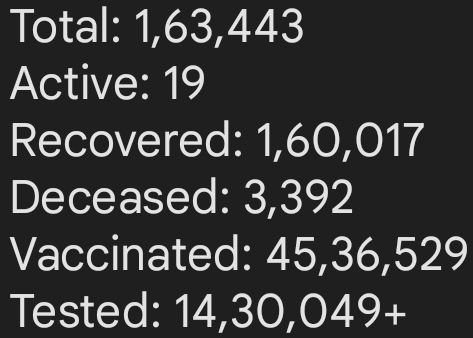
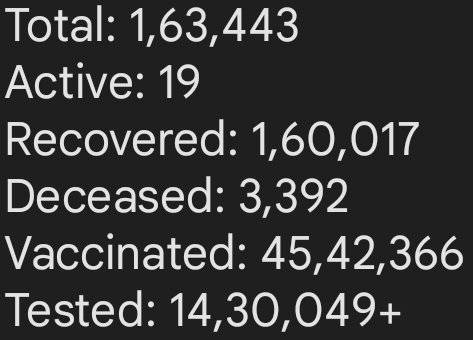
changes 21

diff --git a/index.html b/index.html
@@ -149,67 +149,67 @@
         </div>
         <div class="col s12" id="ind">
           <blockquote style="font-size: x-large; border-left-color: #1e88e5;">
-            <i class="fas fa-virus"></i> Covid 19 (Mar 13, Mar 12)</blockquote>
+            <i class="fas fa-virus"></i> Covid 19 (Mar 14, Mar 13)</blockquote>
           <h6 class="white-text">Source: ICMR/ MyGov<br>&#8595;&#8593; Changes from last 24 hours</h6>
           <div class="row">
             <div class="col s12 m12 l6">
-              <img src="images/I13i.png" alt="IndDB" width="100%" class="responsive-img materialboxed">
+              <img src="images/I14i.png" alt="IndDB" width="100%" class="responsive-img materialboxed">
             </div>
             <div class="col s12 m12 l6">
-              <img src="images/I12i.png" alt="IndDB" width="100%" class="responsive-img materialboxed">
+              <img src="images/I13i.png" alt="IndDB" width="100%" class="responsive-img materialboxed">
             </div>
           </div>
           <blockquote style="font-size: x-large; border-left-color: #1e88e5;">
-            <i class="fas fa-syringe"></i> Vaccination (Mar 13, Mar 12)</blockquote>
+            <i class="fas fa-syringe"></i> Vaccination (Mar 14, Mar 13)</blockquote>
           <div class="row">
+            <div class="col s12 m12 l6">
+              <img src="images/I14ii.png" alt="IndDB" width="100%" class="responsive-img materialboxed">
+            </div>
             <div class="col s12 m12 l6">
               <img src="images/I13ii.png" alt="IndDB" width="100%" class="responsive-img materialboxed">
             </div>
-            <div class="col s12 m12 l6">
-              <img src="images/I12ii.png" alt="IndDB" width="100%" class="responsive-img materialboxed">
-            </div>
           </div>
-          <h6>Below Data as on March 14, 13:55 IST</h6>
+          <h6>Below Data as on March 15, 12:55 IST</h6>
           <div class="row">
             <div class="col s12 m6 l4">
               <div class="card-panel grey darken-4 white-text">
                 <h5><b>Vaccine Doses availability</b></h5>
-                <p>As on March 14, Source: PIB India</p>
-                <p><b>Supplied</b>: 182.79 Crores</p>
-                <p><b>Balance</b>: 17.38 Crores</p>
+                <p>As on March 15, Source: PIB India</p>
+                <p><b>Supplied</b>: 182.84 Crores</p>
+                <p><b>Balance</b>: 17.30 Crores</p>
               </div>
             </div>
             <div class="col s12 m6 l4">
               <div class="card-panel grey darken-4 white-text">
                 <h5><b>Vaccine Doses administered</b></h5>
-                <p><b>Dose 1</b>: 96.88 Crores</p>
-                <p><b>Dose 2</b>: 81.30 Crores</p>
-                <p><b>Prec. Dose</b>: 2.00 Crores</p>
-                <p><b>Total</b>: 180.20 Crores</p>
+                <p><b>Dose 1</b>: 96.90 Crores</p>
+                <p><b>Dose 2</b>: 81.43 Crores</p>
+                <p><b>Prec. Dose</b>: 2.01 Crores</p>
+                <p><b>Total</b>: 180.34 Crores</p>
               </div>
             </div>
             <div class="col s12 m6 l4">
               <div class="card-panel grey darken-4 white-text">
                 <h5><b>Registered for Vaccine</b></h5>
-                <p><b>Age 15 to 18</b>: 5.68 Crores</p>
-                <p><b>Age 18 to 44</b>: 62.83 Crores</p>
+                <p><b>Age 15 to 18</b>: 5.69 Crores</p>
+                <p><b>Age 18 to 44</b>: 62.84 Crores</p>
                 <p><b>Age 45+</b>: 36.48 Crores</p>
-                <p><b>Total</b>: 105.00 Crores</p>
+                <p><b>Total</b>: 105.01 Crores</p>
               </div>
             </div>
             <div class="col s12 m6 l4">
               <div class="card-panel grey darken-4 white-text">
                 <h5><b>Vaccination by Gender</b></h5>
-                <p><b>Male</b>: 90.75 Crores</p>
-                <p><b>Female</b>: 86.97 Crores</p>
+                <p><b>Male</b>: 90.82 Crores</p>
+                <p><b>Female</b>: 87.04 Crores</p>
                 <p><b>Others</b>: 4.28 Lakhs</p>
               </div>
             </div>
             <div class="col s12 m6 l4">
               <div class="card-panel grey darken-4 white-text">
                 <h5><b>Vaccination by Vaccine Name</b></h5>
-                <p><b>CoviShield</b>: 149.74 Crores</p>
-                <p><b>Covaxin</b>: 29.92 Crores</p>
+                <p><b>CoviShield</b>: 149.83 Crores</p>
+                <p><b>Covaxin</b>: 29.97 Crores</p>
                 <p><b>Sputnik V</b>: 12.19 Lakhs</p>
                 <p><b>Corbevax</b>: -</p>
                 <p><b>Zycov-D</b>: -</p>
@@ -219,17 +219,31 @@
               <div class="card-panel grey darken-4 white-text">
                 <h5><b>Vaccination by Age</b></h5>
                 <p><b>Age 12 to 14</b>: -</p>
-                <p><b>Age 15 to 17</b>: 9.00 Crores</p>
-                <p><b>Age 18 to 44</b>: 105.45 Crores</p>
-                <p><b>Age 45 to 60</b>: 40.07 Crores</p>
-                <p><b>Age 60+</b>: 25.25 Crores</p>
+                <p><b>Age 15 to 17</b>: 9.03 Crores</p>
+                <p><b>Age 18 to 44</b>: 105.52 Crores</p>
+                <p><b>Age 45 to 60</b>: 40.09 Crores</p>
+                <p><b>Age 60+</b>: 25.27 Crores</p>
               </div>
             </div>
           </div>
         </div>
         <div class="col s12" id="sta">
           <blockquote style="font-size: x-large; border-left-color: #1e88e5;">
-            <i class="fas fa-virus"></i> Covid 19 (Mar 13, Mar 12)</blockquote>
+            <i class="fas fa-virus"></i> Covid 19 (Mar 14, Mar 13)</blockquote>
+          <div class="row">
+            <div class="col s12 m12 l3">
+              <img src="images/S14i.png" alt="StatDB1" width="100%" class="responsive-img materialboxed">
+            </div>
+            <div class="col s12 m12 l3">
+              <img src="images/S14ii.png" alt="StatDB2" width="100%" class="responsive-img materialboxed">
+            </div>
+            <div class="col s12 m12 l3">
+              <img src="images/S14iii.png" alt="StatDB3" width="100%" class="responsive-img materialboxed">
+            </div>
+            <div class="col s12 m12 l3">
+              <img src="images/S14iv.png" alt="StatDB4" width="100%" class="responsive-img materialboxed">
+            </div>
+          </div>
           <div class="row">
             <div class="col s12 m12 l3">
               <img src="images/S13i.png" alt="StatDB1" width="100%" class="responsive-img materialboxed">
@@ -244,41 +258,27 @@
               <img src="images/S13iv.png" alt="StatDB4" width="100%" class="responsive-img materialboxed">
             </div>
           </div>
-          <div class="row">
-            <div class="col s12 m12 l3">
-              <img src="images/S12i.png" alt="StatDB1" width="100%" class="responsive-img materialboxed">
-            </div>
-            <div class="col s12 m12 l3">
-              <img src="images/S12ii.png" alt="StatDB2" width="100%" class="responsive-img materialboxed">
-            </div>
-            <div class="col s12 m12 l3">
-              <img src="images/S12iii.png" alt="StatDB3" width="100%" class="responsive-img materialboxed">
-            </div>
-            <div class="col s12 m12 l3">
-              <img src="images/S12iv.png" alt="StatDB4" width="100%" class="responsive-img materialboxed">
-            </div>
-          </div>
           <blockquote style="font-size: x-large; border-left-color: #1e88e5;">
-            <i class="fas fa-syringe"></i> Vaccination (Mar 13, Mar 12)</blockquote>
+            <i class="fas fa-syringe"></i> Vaccination (Mar 14, Mar 13)</blockquote>
           <div class="row">
+            <div class="col s12 m12 l3">
+              <img src="images/V14i.png" alt="VacDB1" width="100%" class="responsive-img materialboxed">
+            </div>
+            <div class="col s12 m12 l3">
+              <img src="images/V14ii.png" alt="VacDB2" width="100%" class="responsive-img materialboxed">
+            </div>
             <div class="col s12 m12 l3">
               <img src="images/V13i.png" alt="VacDB1" width="100%" class="responsive-img materialboxed">
             </div>
             <div class="col s12 m12 l3">
               <img src="images/V13ii.png" alt="VacDB2" width="100%" class="responsive-img materialboxed">
             </div>
-            <div class="col s12 m12 l3">
-              <img src="images/V12i.png" alt="VacDB1" width="100%" class="responsive-img materialboxed">
-            </div>
-            <div class="col s12 m12 l3">
-              <img src="images/V12ii.png" alt="VacDB2" width="100%" class="responsive-img materialboxed">
-            </div>
           </div>
           <h6><b>Abbreviations</b> - UT: Union Territory</h6>
         </div>
         <div class="col s12" id="mah">
           <blockquote style="font-size: x-large; border-left-color: #1e88e5;">
-            <i class="fas fa-virus"></i> Covid 19 (Mar 13)</blockquote>
+            <i class="fas fa-virus"></i> Covid 19 (Mar 14)</blockquote>
           <h6>Source: Twitter - PIB Maharashtra</h6>
           <div class="row">
             <div class="col s12 m12 l6">
@@ -286,33 +286,33 @@
                 class="responsive-img materialboxed">
             </div>
             <div class="col s12 m12 l6">
-              <img src="https://pbs.twimg.com/media/FNu8MBRaQAUCbR2?format=png&name=900x900" alt="MH2" width="100%"
+              <img src="https://pbs.twimg.com/media/FN0chwLaAAgQDV_?format=png&name=900x900" alt="MH2" width="100%"
                 class="responsive-img materialboxed">
             </div>
           </div>
           <div class="row">
             <div class="col s12 m12 l6">
-              <img src="https://pbs.twimg.com/media/FNu8Ox3aQAATtBU?format=png&name=small" alt="MH3" width="100%"
+              <img src="https://pbs.twimg.com/media/FN0coYdakAAc--e?format=png&name=small" alt="MH3" width="100%"
                 class="responsive-img materialboxed">
             </div>
             <div class="col s12 m12 l6">
-              <img src="https://pbs.twimg.com/media/FNu81XXaMAInfXK?format=png&name=small" alt="MH4" width="100%"
-                class="responsive-img materialboxed">
-            </div>
-          </div>
-          <div class="row">
-            <div class="col s12 m12 l6">
-              <img src="https://pbs.twimg.com/media/FNu84YjagAMe_z-?format=png&name=900x900" alt="MH5" width="100%"
-                class="responsive-img materialboxed">
-            </div>
-            <div class="col s12 m12 l6">
-              <img src="https://pbs.twimg.com/media/FNu87WgaQAIjvm2?format=png&name=900x900" alt="MH6" width="100%"
+              <img src="https://pbs.twimg.com/media/FN0dMf1acAE2qDw?format=png&name=small" alt="MH4" width="100%"
                 class="responsive-img materialboxed">
             </div>
           </div>
           <div class="row">
             <div class="col s12 m12 l6">
-              <img src="https://pbs.twimg.com/media/FNu8-UEaUAAXSKP?format=png&name=900x900" alt="MH7" width="100%"
+              <img src="https://pbs.twimg.com/media/FN0dO2laIAQ9Pgs?format=png&name=900x900" alt="MH5" width="100%"
+                class="responsive-img materialboxed">
+            </div>
+            <div class="col s12 m12 l6">
+              <img src="https://pbs.twimg.com/media/FN0dRexaAAId_hH?format=png&name=900x900" alt="MH6" width="100%"
+                class="responsive-img materialboxed">
+            </div>
+          </div>
+          <div class="row">
+            <div class="col s12 m12 l6">
+              <img src="https://pbs.twimg.com/media/FN0dUL4akAAmt8P?format=png&name=900x900" alt="MH7" width="100%"
                 class="responsive-img materialboxed">
             </div>
           </div>
@@ -327,30 +327,30 @@
           <div class="oui-button blue darken-1"><a href="thavac.html" target="_blank" class="white-text">VACCINE SLOT
               TRACKERS</a>
           </div>
-          <h6 class="white-text">As on March 13 (March 12) (&#8593; - new cases)</h6>
+          <h6 class="white-text">As on March 14 (March 13) (&#8593; - new cases)</h6>
           <!-- <h6 class="white-text">As on March 3* (&#8593; - new cases)</h6> -->
           <div class="row">
             <div class="col s12 m6 l3">
               <div class="card-panel grey darken-4 white-text">
-                <h5><b>MUMBAI</b> <i class="fas fa-arrow-circle-up"></i> 44 (31) </h5>
+                <h5><b>MUMBAI</b> <i class="fas fa-arrow-circle-up"></i> 27 (44) </h5>
                 <img src="images/D1.png" alt="MD" width="100%" class="responsive-img" id="dis">
               </div>
             </div>
             <div class="col s12 m6 l3">
               <div class="card-panel grey darken-4 white-text">
-                <h5><b>THANE</b> <i class="fas fa-arrow-circle-up"></i> 20 (28) </h5>
+                <h5><b>THANE</b> <i class="fas fa-arrow-circle-up"></i> 7 (20) </h5>
                 <img src="images/D2.png" alt="TD" width="100%" class="responsive-img" id="dis">
               </div>
             </div>
             <div class="col s12 m6 l3">
               <div class="card-panel grey darken-4 white-text">
-                <h5><b>PALGHAR</b> <i class="fas fa-arrow-circle-up"></i> 2 (2) </h5>
+                <h5><b>PALGHAR</b> <i class="fas fa-arrow-circle-up"></i> 0 (2) </h5>
                 <img src="images/D3.png" alt="PD" width="100%" class="responsive-img" id="dis">
               </div>
             </div>
             <div class="col s12 m6 l3">
               <div class="card-panel grey darken-4 white-text">
-                <h5><b>RAIGAD</b> <i class="fas fa-arrow-circle-up"></i> 15 (9) </h5>
+                <h5><b>RAIGAD</b> <i class="fas fa-arrow-circle-up"></i> 3 (15) </h5>
                 <img src="images/D4.png" alt="RD" width="100%" class="responsive-img" id="dis">
               </div>
             </div>
@@ -378,14 +378,14 @@
             </div>
           </div>
           <blockquote style="font-size: x-large; border-left-color: #1e88e5;">Raigad Dashboard</blockquote>
-          <h6>Source: Twitter - Raigad District<br>As on March 12 (March 11)</h6>
+          <h6>Source: Twitter - Raigad District<br>As on March 14 (March 12)</h6>
           <div class="row">
             <div class="col s12 m12 l6">
-              <img src="https://pbs.twimg.com/media/FNqMKd8aMAIez-L?format=jpg&name=medium" alt="Rai" width="100%"
+              <img src="https://pbs.twimg.com/media/FN0i4CVVEAIwkTF?format=jpg&name=medium" alt="Rai" width="100%"
                 class="responsive-img materialboxed">
             </div>
             <div class="col s12 m12 l6">
-              <img src="https://pbs.twimg.com/media/FNlanz9UcAY_bjs?format=jpg&name=medium" alt="Rai" width="100%"
+              <img src="https://pbs.twimg.com/media/FNqMKd8aMAIez-L?format=jpg&name=medium" alt="Rai" width="100%"
                 class="responsive-img materialboxed">
             </div>
           </div>
